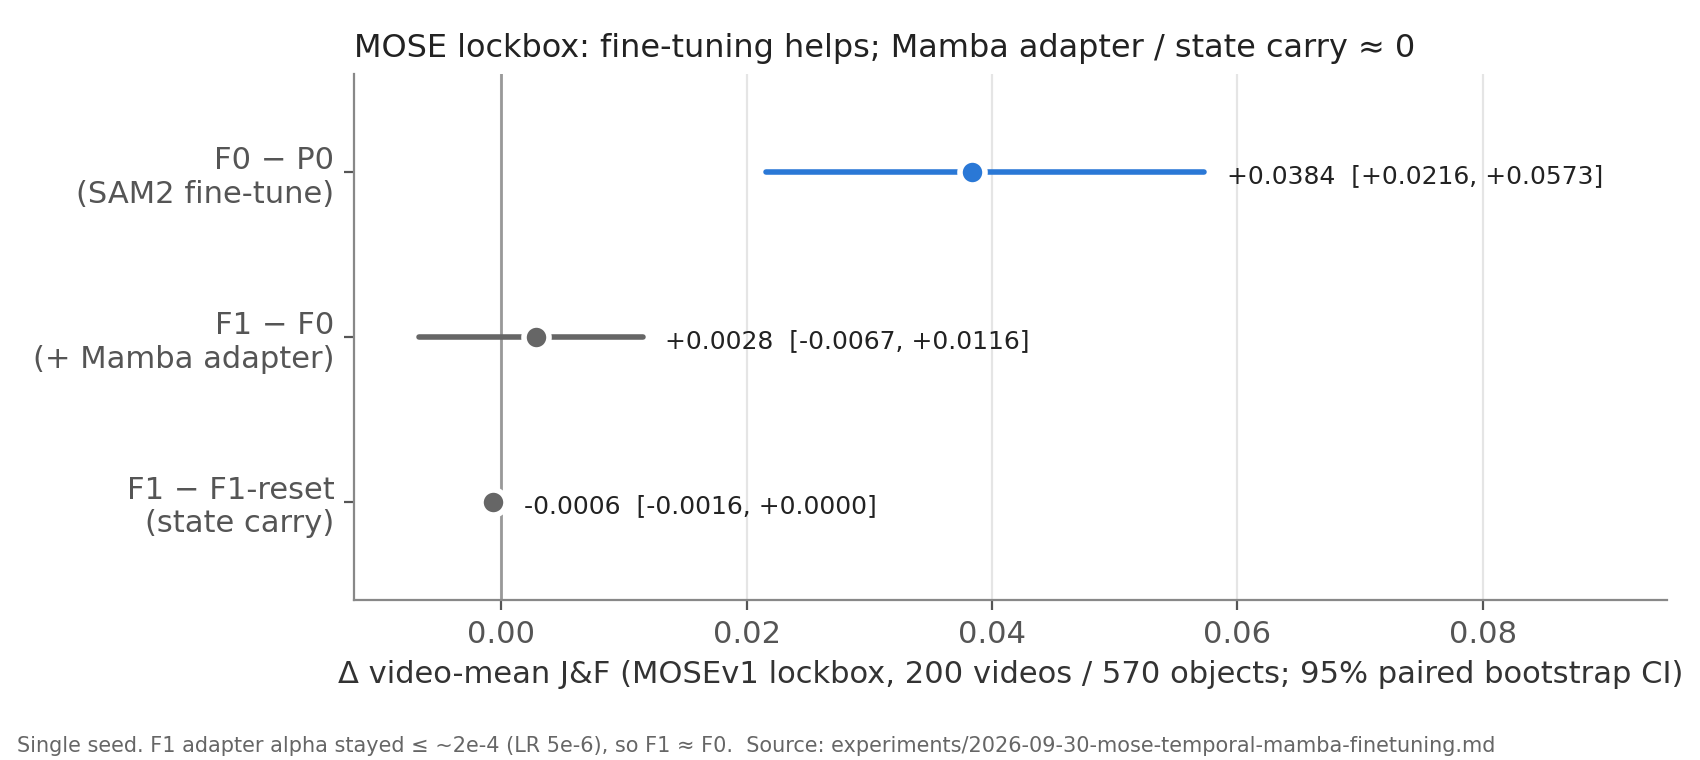
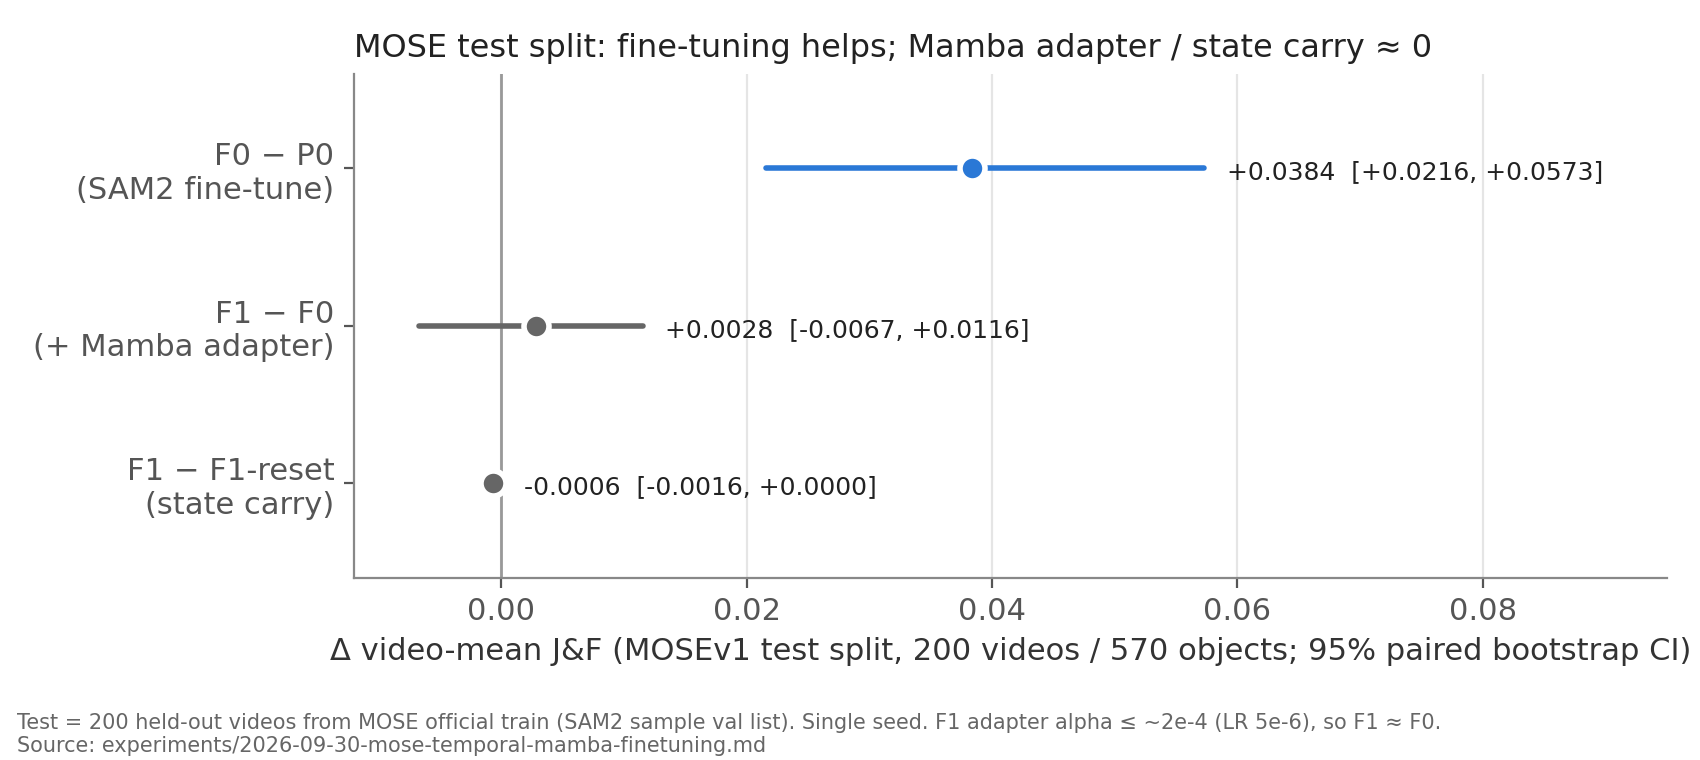
週次MTG資料のMOSE評価説明を整理

diff --git a/.research/lab/projects/sam2-mamba-motion-tracking/materials/2026-10-09-weekly-progress-mtg-materials.md b/.research/lab/projects/sam2-mamba-motion-tracking/materials/2026-10-09-weekly-progress-mtg-materials.md
@@ -17,7 +17,7 @@ tags: [meeting-materials, research, temporal-mamba, mose, sam2mot, midterm]
 1. **temporal Mamba（主線）の次の一手**: MOSE追加学習を完走・評価したが、Mamba adapterがLR不足でほぼ学習されておらず、効果を検証できていなかった。次の2案のどちらを先に進めるか。
    - (A) 今の1 token構成のまま、adapter LRと学習量を直して再学習し、「Mambaが学習される状態で効果が出るか」を先に確認する
    - (B) 9/30に話した「空間情報を保つ特徴表現」の設計を先に決め、その構成で再学習する
-2. **再評価のデータ**: lockbox 200系列は使用済み。再学習後は「同じ200系列で探索的評価」とするか、「新しいholdoutを切り直す」か。
+2. **再評価のデータ**: test 200動画は使用済み。再学習後は「同じ200系列で探索的評価」とするか、「新しいholdoutを切り直す」か。
 3. **SAM2MOT（補助線、spec期限10/16）をどこで止めるか**: Q-Rを補正方式にすると3段とも論文と同じ向きになり、test提出も済んだ。S1提出と検出器checkpointの比較で区切るか、CoIでAssAが下がる原因まで掘るか。
 4. **中間発表**: 発表日（スライドの表紙は10/18、ファイル名は10/17）と、本日の練習の進め方。MOSEの結果をスライドに入れるか。
 
@@ -31,10 +31,10 @@ tags: [meeting-materials, research, temporal-mamba, mose, sam2mot, midterm]
 | 日付 | temporal Mamba / MOSE（主線） | SAM2MOT再現（補助線） | その他 |
 |---|---|---|---|
 | 9/30 | MOSEv1を取得・展開。F0/F1比較のspecを承認し、pilot（100 step）を実施。本学習の条件を固定し、F0の学習を開始 | S3のA7切り分け（A6のみでHOTA 68.22）。A7を既定で無効に | MTG |
-| 10/3 | F0をstep 800から復旧・再開。評価のmanifestとlockbox gate（hashで凍結）を実装 | **S4（Q-R）val: HOTA 61.85（−6.37）** | |
+| 10/3 | F0をstep 800から復旧・再開。評価のmanifestと、test評価前にhashで凍結するgateを実装 | **S4（Q-R）val: HOTA 61.85（−6.37）** | |
 | 10/6 | F0をstep 1400から再開（〜2001） | S4でA7を再確認（A7は無効のまま）。test 35系列の検出生成を完了 | 一次資料調査2本（再現差、test評価構成）。deep-researchスキルを作成 |
 | 10/7 | F0 fitが完了。中断対策としてtmux常駐に移行。F1 fitを開始 | **Q-Rのマッチ閾値0.5: HOTA 61.70（変化なし）** | |
-| 10/8 | F1 fitが完了。checkpointを選択して凍結し、**lockbox評価を完了**。学習コードをSAM2 repoにcommit | **Q-Rを補正方式に: HOTA 69.25（+1.03）**。test S1〜S4の実行を開始 | 定性比較動画（dancetrack0034）を作成。HOTA 70以上の手法調査のTODOを完了 |
+| 10/8 | F1 fitが完了。checkpointを選択して凍結し、**test評価を完了**。学習コードをSAM2 repoにcommit | **Q-Rを補正方式に: HOTA 69.25（+1.03）**。test S1〜S4の実行を開始 | 定性比較動画（dancetrack0034）を作成。HOTA 70以上の手法調査のTODOを完了 |
 | 10/9 | **事後診断: F1 adapterは実質未学習、F0も学習途中**。成果物の移動とworktreeの削除 | **test S2〜S4をCodaBenchに提出**（S1は提出上限のため10/10以降） | 中間発表スライドをレビュー |
 
 ## 3. 9/30 MTGのTODOの対応状況
@@ -51,13 +51,15 @@ tags: [meeting-materials, research, temporal-mamba, mose, sam2mot, midterm]
 ### 4.1 設定（承認済みspec）
 
 - SAM2.1 Small、MOSEv1。単一対象、先頭frameのbox promptのみで、後続のGT補正はなし。
-- 分割（動画単位、seed 123）: fit 1,121動画 / 2,789軌跡、tuning 125動画 / 313軌跡、lockbox 200動画 / 570軌跡。
+- 分割（動画単位、seed 123）: train 1,121動画 / 2,789軌跡、val 125動画 / 313軌跡、test 200動画 / 570軌跡。
+  - MOSE公式のvalidには最初のフレームの正解マスクしかないため、3つともMOSE公式trainから切り出した。testはSAM2公式の `MOSE_sample_val_list` の200動画。
+  - 実験ログ上の名前は train = fit、val = tuning、test = lockbox。
 - 条件: P0 = 追加学習なし、F0 = SAM2全体を学習、F1 = SAM2全体 + temporal Mamba adapter、F1-reset = F1でMamba stateを毎frame reset（診断用）。
 - 学習: fitを1周（2,789 update、batch 1）、TBPTT=8。TBPTT=16は55 frameの系列でOOM（約31 GiB）になったため不採用。peak VRAMは約20.4 GiB。
-- tuningの6候補（step 500〜2789）からJ&F最大のcheckpointを選び（F0: 2789、F1: 2000）、コードとcheckpointをhashで凍結してから、lockboxを1回だけ評価した。
+- valで6候補（step 500〜2789）を評価してJ&F最大のcheckpointを選び（F0: 2789、F1: 2000）、コードとcheckpointをhashで凍結してから、testを1回だけ評価した。
 - pilot（100 step）の時点でF1−F0 = −0.000003と、差はなかった。
 
-### 4.2 lockbox結果
+### 4.2 test結果
 
 **この図で見る点**: 追加学習の効果（青）ははっきり出ているが、Mamba追加とstate carryの差（灰）はほぼ0。
 
@@ -91,16 +93,45 @@ adapterの出力は `pix_feat + alpha * residual`（alphaの初期値は0）。
 
 - 新しく追加したadapterにも、学習済みSAM2を微調整するためのLR（5e-6）を使っていた。cosine減衰で2,789 step回しても、alphaが動ける量は最大で約0.007しかない。
 - このため **F1は実質的にF0とほぼ同じモデル** になった。F1−F0とF1−F1-resetがほぼ0という結果は、これと整合する。
-- **F0も学習途中**: tuning J&Fは最終stepまで単調に上がっていた。
+- **F0も学習途中**: valのJ&Fは最終stepまで単調に上がっていた。
 
 | step | 500 | 1000 | 1500 | 2000 | 2500 | 2789 |
 |---|---:|---:|---:|---:|---:|---:|
-| F0 tuning J&F | 0.753 | 0.754 | 0.758 | 0.762 | 0.769 | 0.770 |
-| F1 tuning J&F | 0.750 | 0.766 | 0.761 | 0.771 | 0.771 | 0.770 |
+| F0 val J&F | 0.753 | 0.754 | 0.758 | 0.762 | 0.769 | 0.770 |
+| F1 val J&F | 0.750 | 0.766 | 0.761 | 0.771 | 0.771 | 0.770 |
 
-- 学習量は公式MOSE configの約1/4（画像フレーム数換算）。ほかにも公式と次の点が異なる: 独自の学習ループ、layer-wise LR decayなし、cosineの終点が0、augmentationの実装順。
+- 学習量は公式MOSE configの約1/4（画像フレーム数換算）。公式との違いは4.4節にまとめた。
 
-### 4.4 運用面で起きたこと
+### 4.4 SAM2公式のMOSE追加学習との違い
+
+公式の `sam2.1_hiera_b+_MOSE_finetune.yaml` を土台に、「最初のフレームでboxを1回与え、あとは自力で最後まで追う」というトラッキングの使い方に合わせて作り変えた。公式はクリックで修正しながら使う対話的なセグメンテーション向けの学習である。
+
+#### 意図して変えたもの（specで決定）
+
+| 項目 | SAM2公式 | 今回 | 理由 |
+|---|---|---|---|
+| モデル | Base+ | Small | 手元の推論実験と同じモデルにそろえる |
+| 1サンプル | 8フレームのclip、最大3物体 | 1物体の軌跡を最初から最後まで（最長500フレーム） | Mambaの記憶を動画全体で持ち越させる |
+| 記憶の扱い | clipの中だけ | 軌跡全体で持ち越し、勾配は8フレームごとに区切る（TBPTT=8） | 同上。16フレームではGPUメモリ不足 |
+| 与えるヒント | 点・box・マスクをランダムに混ぜ、最初の1〜2フレームに与える。途中で修正クリックも入れる | 最初のフレームにboxを1回だけ。途中の修正なし | 追跡で実際に使う条件に合わせる |
+
+#### 意図せずずれたもの・足りなかったもの
+
+| 項目 | SAM2公式 | 今回 | 影響 |
+|---|---|---|---|
+| 学習量 | 1,246動画 × 2 × 40 epoch | 2,789軌跡を1周 | 画像フレーム数で約1/4、更新回数で約1/4.5。**学習不足** |
+| 1回の更新に使うサンプル数 | 8（8 GPU × 1） | 1（1 GPU） | 更新がばらつきやすい |
+| 学習ループ | 公式trainer | 独自ループ（lossは公式と同じ） | 細かい挙動が公式と一致する保証はない |
+| 層ごとのLR減衰 | 0.9 | なし | 入力に近い層も同じ強さで更新される |
+| LRの最終値 | 開始値の1/10 | 0 | 終盤はほとんど学習しない |
+| データ拡張 | 公式の実装順 | パラメータの範囲は公式どおりだが、処理の順番などが異なる | F0とF1には同じものを使っているので、比較には影響しない |
+| **新しく足したMambaのLR** | （公式にMambaはない） | SAM2本体と同じ微調整用のLR（5e-6） | **Mambaがほぼ学習されなかった直接の原因** |
+
+- 公式と同じもの: 解像度1024、loss（`MultiStepMultiMasksAndIous`、重みも同じ）、SAM2本体のLR（本体5e-6、画像encoder 3e-6）。
+- SAM2本体のLRは公式どおりで正しい。問題は、ゼロから育てるMambaにも、学習済みモデルを少しだけ調整するための同じLRを当てたこと。
+- 再学習では、MambaのLRを本体と分けることと学習量を増やすことは必須。層ごとのLR減衰、LRの最終値、公式trainerの利用は、公式に寄せるか検討する。1物体・最初のboxのみ・軌跡全体での記憶の持ち越しは、知りたい問いそのものなので残す。
+
+### 4.5 運用面で起きたこと
 
 - 学習プロセスが何度か消失した（10/3、10/6、10/7）。tracebackやOOMはなく、エージェントのターン中断に連動していた。毎回、最後の復旧checkpointから再計算して再開し、ログの連番・sample順・lossの有限性を監査して異常はなかった。10/7からはtmuxに常駐させている。
 - SAM2MOTの実験とGPUを取り合い、待ちが発生した（S4 val runはOOMで再開）。F0の開始〜完了は168.3時間だが、待ちと中断を含むので実学習時間ではない。

diff --git a/.research/lab/projects/sam2-mamba-motion-tracking/materials/figures/2026-10-09-weekly-progress/manifest.md b/.research/lab/projects/sam2-mamba-motion-tracking/materials/figures/2026-10-09-weekly-progress/manifest.md
@@ -14,4 +14,4 @@
 | file | type | purpose | source | note |
 |---|---|---|---|---|
 | 01-sam2mot-hota-by-stage.png | experiment（再構成） | SAM2MOTの段ごとのHOTAを論文test・本再現test・本再現valで比較 | generated | S1 testは未提出。valとtestは別split |
-| 02-mose-paired-jf-diff.png | experiment（再構成） | MOSE lockboxのJ&F差と95% CI | generated | 単一seed。F1 adapterは実質未学習 |
+| 02-mose-paired-jf-diff.png | experiment（再構成） | MOSE test（200動画）のJ&F差と95% CI | generated | 単一seed。F1 adapterは実質未学習 |
